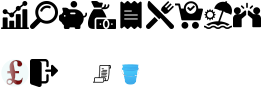
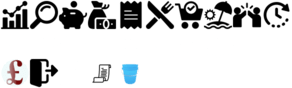
feat: separate planning page and button
* feat: show planning in its own separate page
    * feat: planning button

Changed region(s): [[0.0, 0.0, 1.0, 0.3409], [0.0, 0.6591, 0.2443, 1.0], [0.3053, 0.7273, 0.5496, 0.9773]]

diff --git a/src/client/components/planning/index.tsx b/src/client/components/planning/index.tsx
@@ -1,6 +1,6 @@
 import getYear from 'date-fns/getYear';
 import React, { useState } from 'react';
-import { RouteComponentProps, withRouter } from 'react-router';
+import type { RouteComponentProps } from 'react-router';
 
 import { PlanningContextSetState, PlanningContextState } from './context';
 import { usePlanning, usePlanningData } from './hooks';
@@ -9,12 +9,9 @@ import { Sidebar } from './sidebar';
 import { Status } from './status/status';
 import * as Styled from './styles';
 
-import { ModalWindow, useCloseModal } from '~client/components/modal-window';
 import { useToday } from '~client/hooks';
 
-const PagePlanning: React.FC<RouteComponentProps> = ({ history }) => {
-  const onClosed = useCloseModal(history);
-
+const PagePlanning: React.FC<RouteComponentProps> = () => {
   const today = useToday();
   const { state, setState, isSynced, isLoading } = usePlanning();
 
@@ -23,18 +20,15 @@ const PagePlanning: React.FC<RouteComponentProps> = ({ history }) => {
   const planningData = usePlanningData(state, year);
 
   return (
-    <ModalWindow title="Planning" onClosed={onClosed} fullSize>
-      <PlanningContextState.Provider value={state}>
-        <PlanningContextSetState.Provider value={setState}>
-          <Styled.Planning>
-            <Months year={year} planningData={planningData} />
-            <Sidebar year={year} />
-          </Styled.Planning>
-          <Status showSpinner={!isSynced || isLoading} year={year} setYear={setYear} />
-        </PlanningContextSetState.Provider>
-      </PlanningContextState.Provider>
-    </ModalWindow>
+    <PlanningContextState.Provider value={state}>
+      <PlanningContextSetState.Provider value={setState}>
+        <Styled.Planning>
+          <Months year={year} planningData={planningData} />
+          <Sidebar year={year} />
+        </Styled.Planning>
+        <Status showSpinner={!isSynced || isLoading} year={year} setYear={setYear} />
+      </PlanningContextSetState.Provider>
+    </PlanningContextState.Provider>
   );
 };
-
-export default withRouter(PagePlanning);
+export default PagePlanning;

diff --git a/src/client/styled/variables.ts b/src/client/styled/variables.ts
@@ -2,6 +2,7 @@ import { compose } from '@typed/compose';
 import { rgb, rgba, lighten, desaturate } from 'polished';
 
 import { ErrorLevel } from '~client/constants/error';
+import { PageListStandard, PageNonStandard } from '~client/types/enum';
 import { NetWorthAggregate } from '~shared/constants';
 
 export const breakpoints = {
@@ -11,6 +12,9 @@ export const breakpoints = {
   tablet: 1200,
   desktop: 1325,
 };
+
+export const navSpriteWidth = 292;
+export const navSpriteHeight = 88;
 
 export const graphOverviewHeightMobile = 240;
 export const graphFundsHeightMobile = 125;
@@ -110,7 +114,7 @@ export const colors = {
     mobile: rgb(255, 163, 92),
     disabled: rgb(156, 156, 156),
   },
-  overview: {
+  [PageNonStandard.Overview]: {
     main: rgb(66, 66, 66),
     income: rgb(36, 191, 55),
     incomeMobile: rgb(183, 255, 163),
@@ -140,33 +144,36 @@ export const colors = {
       [NetWorthAggregate.mortgage]: rgb(180, 99, 122),
     },
   },
-  funds: {
+  [PageNonStandard.Planning]: {
+    main: rgb(33, 33, 33),
+  },
+  [PageNonStandard.Funds]: {
     main: colorStocks,
     profit: rgb(0, 204, 51),
     loss: rgb(204, 51, 0),
     fundUp: rgb(0, 230, 18),
     fundDown: rgb(255, 44, 44),
   },
-  income: {
+  [PageListStandard.Income]: {
     main: rgb(67, 216, 21),
     arrow: rgb(20, 93, 20),
   },
-  bills: {
+  [PageListStandard.Bills]: {
     main: rgb(183, 28, 28),
   },
-  food: {
+  [PageListStandard.Food]: {
     main: rgb(67, 160, 71),
   },
-  general: {
+  [PageListStandard.General]: {
     main: rgb(1, 87, 155),
   },
-  holiday: {
+  [PageListStandard.Holiday]: {
     main: rgb(0, 137, 123),
   },
-  social: {
+  [PageListStandard.Social]: {
     main: rgb(191, 158, 36),
   },
-  analysis: {
+  [PageNonStandard.Analysis]: {
     main: rgb(244, 167, 66),
   },
   blockIndex: [

diff --git a/src/client/components/nav-bar/styles.ts b/src/client/components/nav-bar/styles.ts
@@ -5,7 +5,13 @@ import { NavLink } from 'react-router-dom';
 import nav1x from '../../images/nav.png';
 import nav2x from '../../images/nav@2x.png';
 import { breakpoint } from '~client/styled/mixins';
-import { sizes, colors, breakpoints } from '~client/styled/variables';
+import {
+  sizes,
+  colors,
+  breakpoints,
+  navSpriteWidth,
+  navSpriteHeight,
+} from '~client/styled/variables';
 import { PageListStandard, PageNonStandard } from '~client/types/enum';
 
 export const NavList = styled.nav`
@@ -39,6 +45,7 @@ type PageBackgroundPosition = Record<NavPage, string>;
 const pageBackgroundPositionMobile: PageBackgroundPosition = {
   logout: '-30px -59px',
   [PageNonStandard.Overview]: '-1px -1px',
+  [PageNonStandard.Planning]: '-263px -1px',
   [PageNonStandard.Analysis]: '-30px -1px',
   [PageNonStandard.Funds]: '-59px -1px',
   [PageListStandard.Income]: '-88px -1px',
@@ -52,6 +59,7 @@ const pageBackgroundPositionMobile: PageBackgroundPosition = {
 const pageBackgroundPositionDesktop: PageBackgroundPosition = {
   logout: '-58px -59px',
   [PageNonStandard.Overview]: '-1px -30px',
+  [PageNonStandard.Planning]: '-263px -30px',
   [PageNonStandard.Analysis]: '-30px -30px',
   [PageNonStandard.Funds]: '-59px -30px',
   [PageListStandard.Income]: '-88px -30px',
@@ -87,7 +95,7 @@ export const Link = styled(NavLink)<LinkProps>`
 
     @media (min-device-pixel-ratio: 2), (min-resolution: 192dpi) {
       background-image: url(${nav2x});
-      background-size: 262px 88px;
+      background-size: ${navSpriteWidth}px ${navSpriteHeight}px;
     }
   }
 

diff --git a/src/client/components/overview-table/styles.ts b/src/client/components/overview-table/styles.ts
@@ -6,7 +6,7 @@ import nav1x from '~client/images/nav.png';
 import nav2x from '~client/images/nav@2x.png';
 import { breakpoint, unimportant } from '~client/styled/mixins';
 import { ButtonUnStyled } from '~client/styled/shared/reset';
-import { breakpoints, colors } from '~client/styled/variables';
+import { breakpoints, colors, navSpriteHeight, navSpriteWidth } from '~client/styled/variables';
 import type { OverviewHeader } from '~client/types';
 import { PageListStandard, PageNonStandard } from '~client/types/enum';
 
@@ -206,7 +206,7 @@ export const AddReceiptButton = styled.span`
 
   @media (min-device-pixel-ratio: 2), (min-resolution: 192dpi) {
     background-image: url(${nav2x});
-    background-size: 262px 88px;
+    background-size: ${navSpriteWidth}px ${navSpriteHeight}px;
   }
 `;
 
@@ -219,7 +219,7 @@ export const BucketButton = styled.span`
 
   @media (min-device-pixel-ratio: 2), (min-resolution: 192dpi) {
     background-image: url(${nav2x});
-    background-size: 262px 88px;
+    background-size: ${navSpriteWidth}px ${navSpriteHeight}px;
   }
 `;
 

diff --git a/src/client/components/logged-in/index.tsx b/src/client/components/logged-in/index.tsx
@@ -21,6 +21,7 @@ const PageOverview = loadable(
   () => import(/* webpackPrefetch: true */ '~client/components/page-overview'),
   lazyOptions,
 );
+const PagePlanning = loadable(() => import('~client/components/planning'), lazyOptions);
 const PageAnalysis = loadable(() => import('~client/components/page-analysis'), lazyOptions);
 const PageFunds = loadable(() => import('~client/components/page-funds'), lazyOptions);
 const PageIncome = loadable(() => import('~client/components/page-list/income'), lazyOptions);
@@ -31,6 +32,7 @@ const PageHoliday = loadable(() => import('~client/components/page-list/holiday'
 const PageSocial = loadable(() => import('~client/components/page-list/social'), lazyOptions);
 
 const routes: RouteObject[] = [
+  { key: 'planning', component: hot(PagePlanning) },
   {
     key: 'analysis',
     path: '/analysis/:groupBy?/:period?/:page?',

diff --git a/src/client/components/app-logo/index.spec.tsx b/src/client/components/app-logo/index.spec.tsx
@@ -107,8 +107,8 @@ describe('<AppLogo />', () => {
       @media (min-device-pixel-ratio: 2), (min-resolution: 192dpi) {
         .emotion-4::before {
           background-image: url(path/to/test/file);
-          -webkit-background-size: 262px 88px;
-          background-size: 262px 88px;
+          -webkit-background-size: 292px 88px;
+          background-size: 292px 88px;
         }
       }
 
@@ -394,8 +394,8 @@ describe('<AppLogo />', () => {
         @media (min-device-pixel-ratio: 2), (min-resolution: 192dpi) {
           .emotion-7::before {
             background-image: url(path/to/test/file);
-            -webkit-background-size: 262px 88px;
-            background-size: 262px 88px;
+            -webkit-background-size: 292px 88px;
+            background-size: 292px 88px;
           }
         }
 

diff --git a/src/client/components/app-logo/styles.ts b/src/client/components/app-logo/styles.ts
@@ -5,7 +5,13 @@ import nav1x from '~client/images/nav.png';
 import nav2x from '~client/images/nav@2x.png';
 import { breakpoint } from '~client/styled/mixins';
 import { Flex } from '~client/styled/shared';
-import { breakpoints, sizes, colors } from '~client/styled/variables';
+import {
+  breakpoints,
+  sizes,
+  colors,
+  navSpriteWidth,
+  navSpriteHeight,
+} from '~client/styled/variables';
 
 export const AppLogo = styled.div`
   display: flex;
@@ -60,7 +66,7 @@ export const Logo = styled.span`
     width: ${rem(sizes.logo)};
     @media (min-device-pixel-ratio: 2), (min-resolution: 192dpi) {
       background-image: url(${nav2x});
-      background-size: 262px 88px;
+      background-size: ${navSpriteWidth}px ${navSpriteHeight}px;
     }
   }
 `;

diff --git a/src/client/components/page-funds/index.tsx b/src/client/components/page-funds/index.tsx
@@ -25,12 +25,8 @@ import { pageColor } from '~client/modules/color';
 import { isSold } from '~client/modules/data';
 import { getFundsCache, getGainsForRow, getPricesForRow, getRowGains } from '~client/selectors';
 import { colors } from '~client/styled/variables';
-import {
-  Delta,
-  FundInputNative as FundInput,
-  FundNative as Fund,
-  PageNonStandard,
-} from '~client/types';
+import { Delta, FundInputNative as FundInput, FundNative as Fund } from '~client/types';
+import { PageNonStandard } from '~shared/constants';
 
 // eslint-disable-next-line @typescript-eslint/no-explicit-any
 const isSort = (value: any | Sort): value is Sort =>

diff --git a/src/api/controllers/funds.ts b/src/api/controllers/funds.ts
@@ -46,7 +46,6 @@ import {
   MutationUpdateCashAllocationTargetArgs,
   MutationUpdateFundAllocationTargetsArgs,
   MutationUpdateFundArgs,
-  PageNonStandard as Page,
   QueryFundHistoryArgs,
   QueryFundHistoryIndividualArgs,
   ReadFundsResponse,
@@ -55,9 +54,10 @@ import {
   Transaction,
   UpdatedFundAllocationTargets,
 } from '~api/types';
+import { PageNonStandard } from '~shared/constants';
 
 const baseController = makeCrudController<FundListRow, FundMain>({
-  table: Page.Funds,
+  table: PageNonStandard.Funds,
   item: 'Funds',
   dbMap: [{ external: 'allocationTarget', internal: 'allocation_target' }],
   withUid: true,

diff --git a/src/client/selectors/overview/direct.ts b/src/client/selectors/overview/direct.ts
@@ -3,8 +3,9 @@ import { createSelector } from 'reselect';
 
 import { sortByKey } from '~client/modules/data';
 import type { State } from '~client/reducers/types';
-import type { CashTotalNative, NetWorthEntryNative, PageNonStandard } from '~client/types';
+import type { CashTotalNative, NetWorthEntryNative } from '~client/types';
 import type { Monthly, NetWorthCategory, NetWorthSubcategory } from '~client/types/gql';
+import type { PageNonStandard } from '~shared/constants';
 
 export const getCashTotal = (state: State): CashTotalNative => state.netWorth.cashTotal;
 

diff --git a/src/client/hooks/subscriptions/list.spec.tsx b/src/client/hooks/subscriptions/list.spec.tsx
@@ -16,9 +16,9 @@ import {
   receiptCreated,
 } from '~client/actions';
 import { GQLProviderMock, mockClient } from '~client/test-utils/gql-provider-mock';
-import { FundNative, Id, PageNonStandard, StandardInput } from '~client/types';
+import { FundNative, Id, StandardInput } from '~client/types';
 
-import { PageListStandard } from '~client/types/enum';
+import { PageListStandard, PageNonStandard } from '~client/types/enum';
 import {
   FundsChangedDocument,
   FundsChangedSubscription,

diff --git a/src/api/queries/funds.ts b/src/api/queries/funds.ts
@@ -1,7 +1,8 @@
 import { sql, DatabaseTransactionConnectionType } from 'slonik';
 
 import { formatDate } from '~api/controllers/shared';
-import { Fund, PageNonStandard, StockSplit, TargetDelta, Transaction } from '~api/types';
+import { Fund, StockSplit, TargetDelta, Transaction } from '~api/types';
+import { PageNonStandard } from '~shared/constants';
 import { Create } from '~shared/types';
 
 export type FundMain = Omit<Fund, 'transactions' | 'stockSplits'>;
